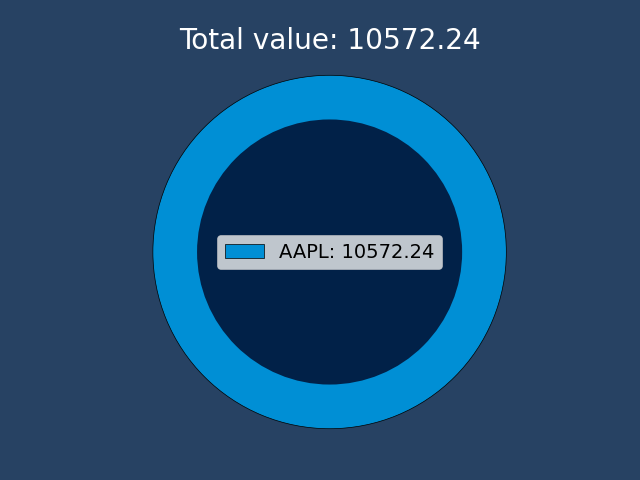
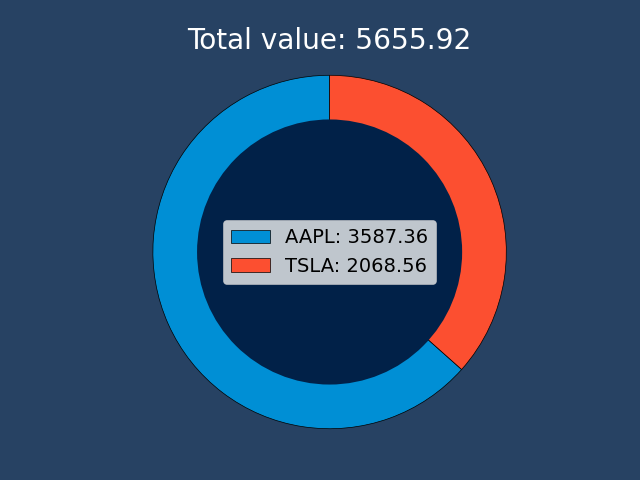
Style update + Save Feature

Changed region(s): [[0.3125, 0.1562, 0.8125, 0.7812], [0.2812, 0.0312, 0.75, 0.125]]

diff --git a/main.py b/main.py
@@ -13,6 +13,8 @@ from kivymd.uix.label import MDLabel
 from kivy.app import App
 import pandas as pd
 import datetime
+import json
+import os
 
 # TODO Implement a save feature.
 # TODO Implement the "Investing Guide"
@@ -62,10 +64,41 @@ class StockApp(MDApp):
         self.root.set_current("main")
 
     def on_start(self):
+        if os.path.exists("./Save_Data/user_data.json"):
+            self.LoadProgress()
+
         self.CheckRank()
         Clock.schedule_interval(self.updateStocks, 2)
         Clock.schedule_interval(self.CheckRank, 5)
         # print(self.root.get_screen("main").ids)
+    
+    def SaveProgress(self):
+        """
+        Saves the progress of the user by saving the amount of stocks from each company that they have and their cash on hand.
+        """
+        if os.path.exists("./Save_Data/user_data.json"):
+            f = open("./Save_Data/user_data.json", "w")
+        else:
+            f = open("./Save_Data/user_data.json", "x")
+        
+        jsonDict = {"money": round(self.userMoney, 2), "stocks": self.ownedStocks, "spent": self.spentOnStocks, "history": self.stockHistory}
+
+        f.write(json.dumps(jsonDict))
+        f.close()
+    
+    def LoadProgress(self):
+        """
+        If the user has saved data then it will load it.
+        """
+        with open("./Save_Data/user_data.json", 'r') as json_file:
+            data = json.loads(json_file.read())
+
+            self.userMoney = data['money']
+            self.ownedStocks = data['stocks']
+            self.spentOnStocks = data['spent']
+            self.stockHistory = data['history']
+        
+        return
     
     def CheckRank(self, *args):
         """
@@ -331,6 +364,9 @@ class StockApp(MDApp):
         ### Portolio screen changes (update values and graph.)
         if self.currentScreens['portfolio']:
             self.root.get_screen("portfolio").changes = True
+        
+        ### Save transaction
+        self.SaveProgress()
 
         self.dialog.dismiss()
 
@@ -380,6 +416,9 @@ class StockApp(MDApp):
         ### Portolio screen changes (update values and graph.)
         if self.currentScreens['portfolio']:
             self.root.get_screen("portfolio").changes = True
+        
+        ### Save transaction
+        self.SaveProgress()
         
         self.dialog.dismiss()
     

diff --git a/libs/uix/baseclass/settings.py b/libs/uix/baseclass/settings.py
@@ -1,7 +1,9 @@
 from kivy.app import App
 from kivymd.uix.dialog import MDDialog
+from kivymd.toast import toast
 from kivy.uix.screenmanager import Screen
 from kivymd.uix.button import MDFlatButton, MDRaisedButton
+import os
 
 class Settings(Screen):
     wipeDialog = None
@@ -71,4 +73,10 @@ class Settings(Screen):
         """
         When clicked it will clear all the saved data from the user, so they can start over if they want.
         """
-        self.dialog.dismiss()
+        if os.path.exists("./Save_Data/user_data.json"):
+            os.remove("./Save_Data/user_data.json")
+            self.dialog.dismiss()
+            App.get_running_app().stop()
+        else:
+            toast("There is no saved data to wipe.")
+            self.dialog.dismiss()
